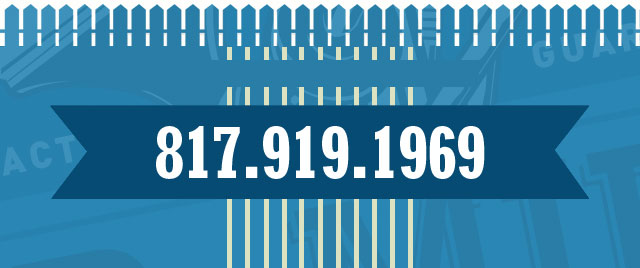
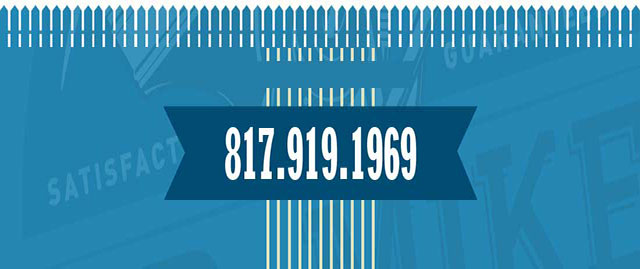
working on responsive layout

diff --git a/css/responsive.css b/css/responsive.css
@@ -6,20 +6,25 @@
 	.mobile-hide{
 		display: none;
 	}
-
+.main-content-wrapper{
+	margin-left: 15px;
+}
 	.header{
+		height: 145px;
 		background: url('/img/hero-mobile.jpg') no-repeat;
-		background-size: cover;
+		background-size: contain;
 	}
 	.statement{
-		font-size: 26px;
-		width: 540px;
+		font-size: 12px;
+		width: 240px;
+	}
+	.section{
+		margin-left: 0;
+		margin-top: 20px;
 	}
 	.section h4{
 		display: inline-block;
-		vertical-align: top;
-		margin-top: 20px;
-		font-size: 2em;
+		margin-right: 20px;
 	}
 	.section-align{
 		margin-left: 240px;
@@ -45,5 +50,9 @@
 	}
 	.services-list{
 		font-size: 20px;
+	}
+	.email-wrapper{
+		bottom: 0;
+		top: 75px;
 	}
 }

diff --git a/index.html b/index.html
@@ -4,6 +4,8 @@
 	<title>Dr. Mike | Healthy Fence</title>
 	<link rel="stylesheet" type="text/css" href="css/style.css">	
 	<link rel="stylesheet" type="text/css" href="css/responsive.css">
+	<meta name="viewport" content="width=device-width">
+
 </head>
 <body>
 	<div class="container"><!---Start Container-->
@@ -78,8 +80,7 @@
 			<div class="email-wrapper">
 				<a href="mailto:dr.mike@healthyfence.com">Dr.Mike@HealthyFence.com</a>
 			</div>
-			<!-- <img src="img/footer-img.jpg" class="mobile-hide"> -->
-			<img src="img/footer-img-mobile.jpg" class="mobile-show">
+			<img src="img/footer-img.jpg">
 		</div><!--End Footer-->
 	</div><!--End Container-->
 </body>

diff --git a/css/style.css b/css/style.css
@@ -173,3 +173,6 @@ h4{
 	position: relative;
 	bottom: 20px;
 }
+.footer img{
+		max-width: 100%;
+	}
